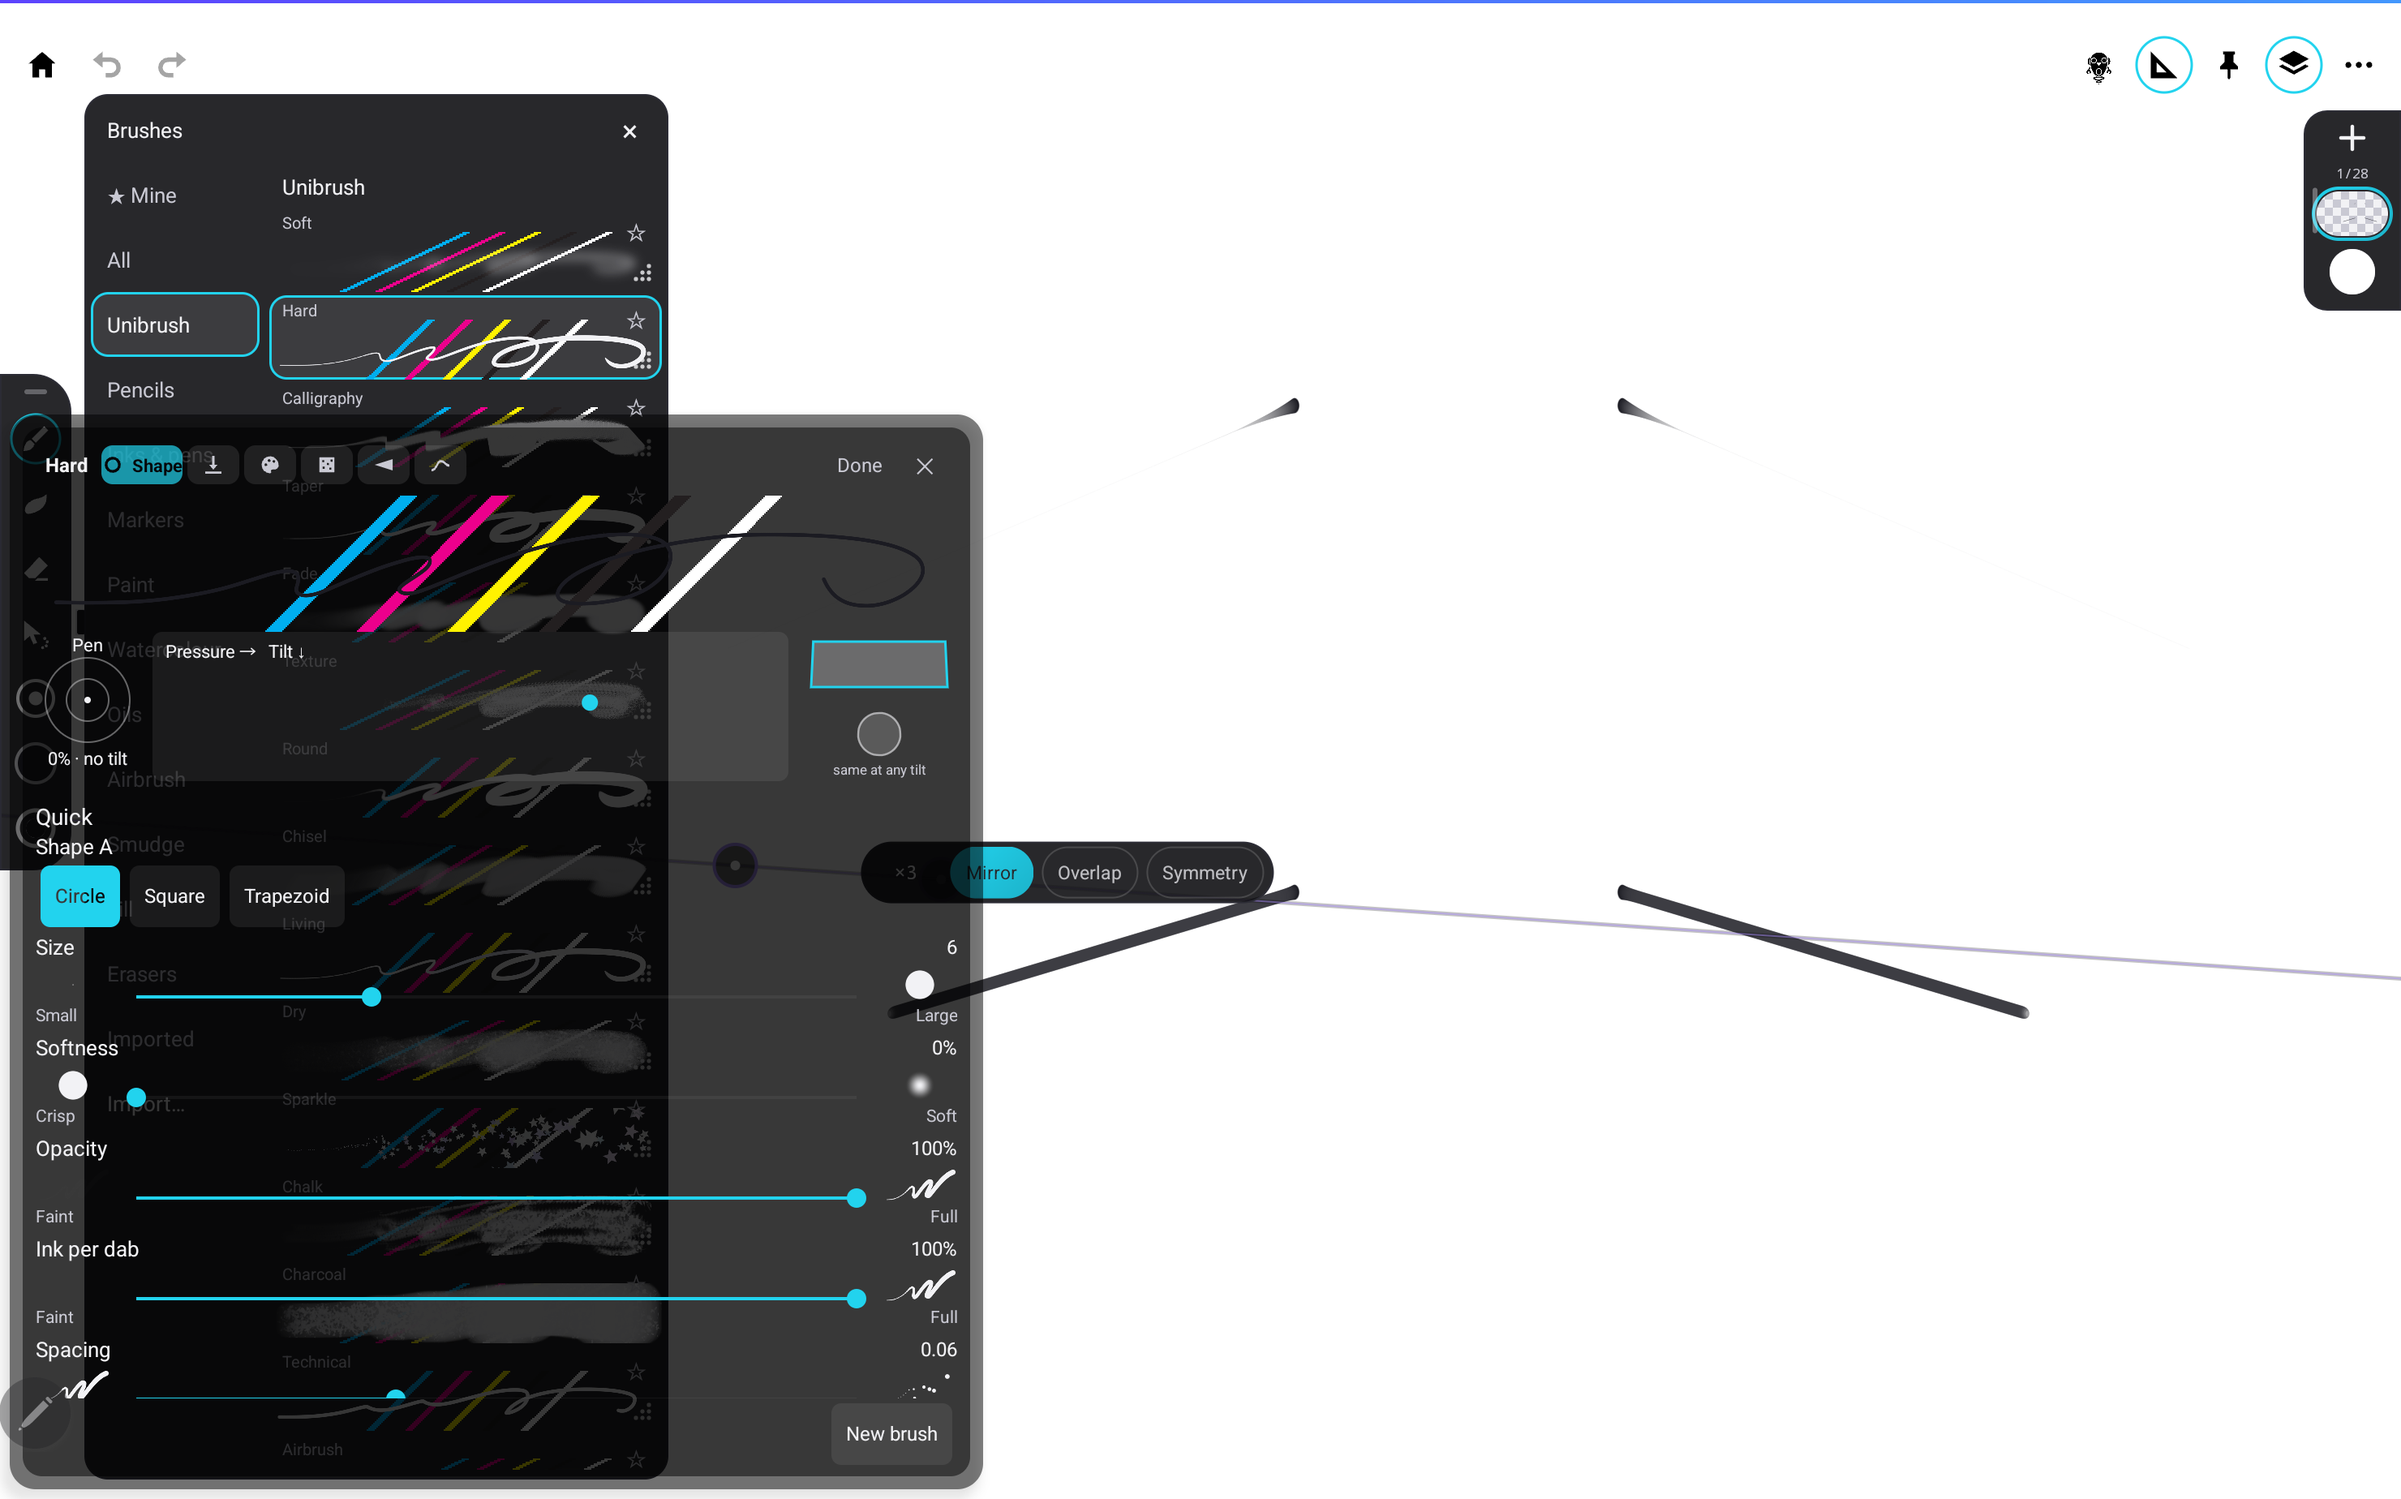
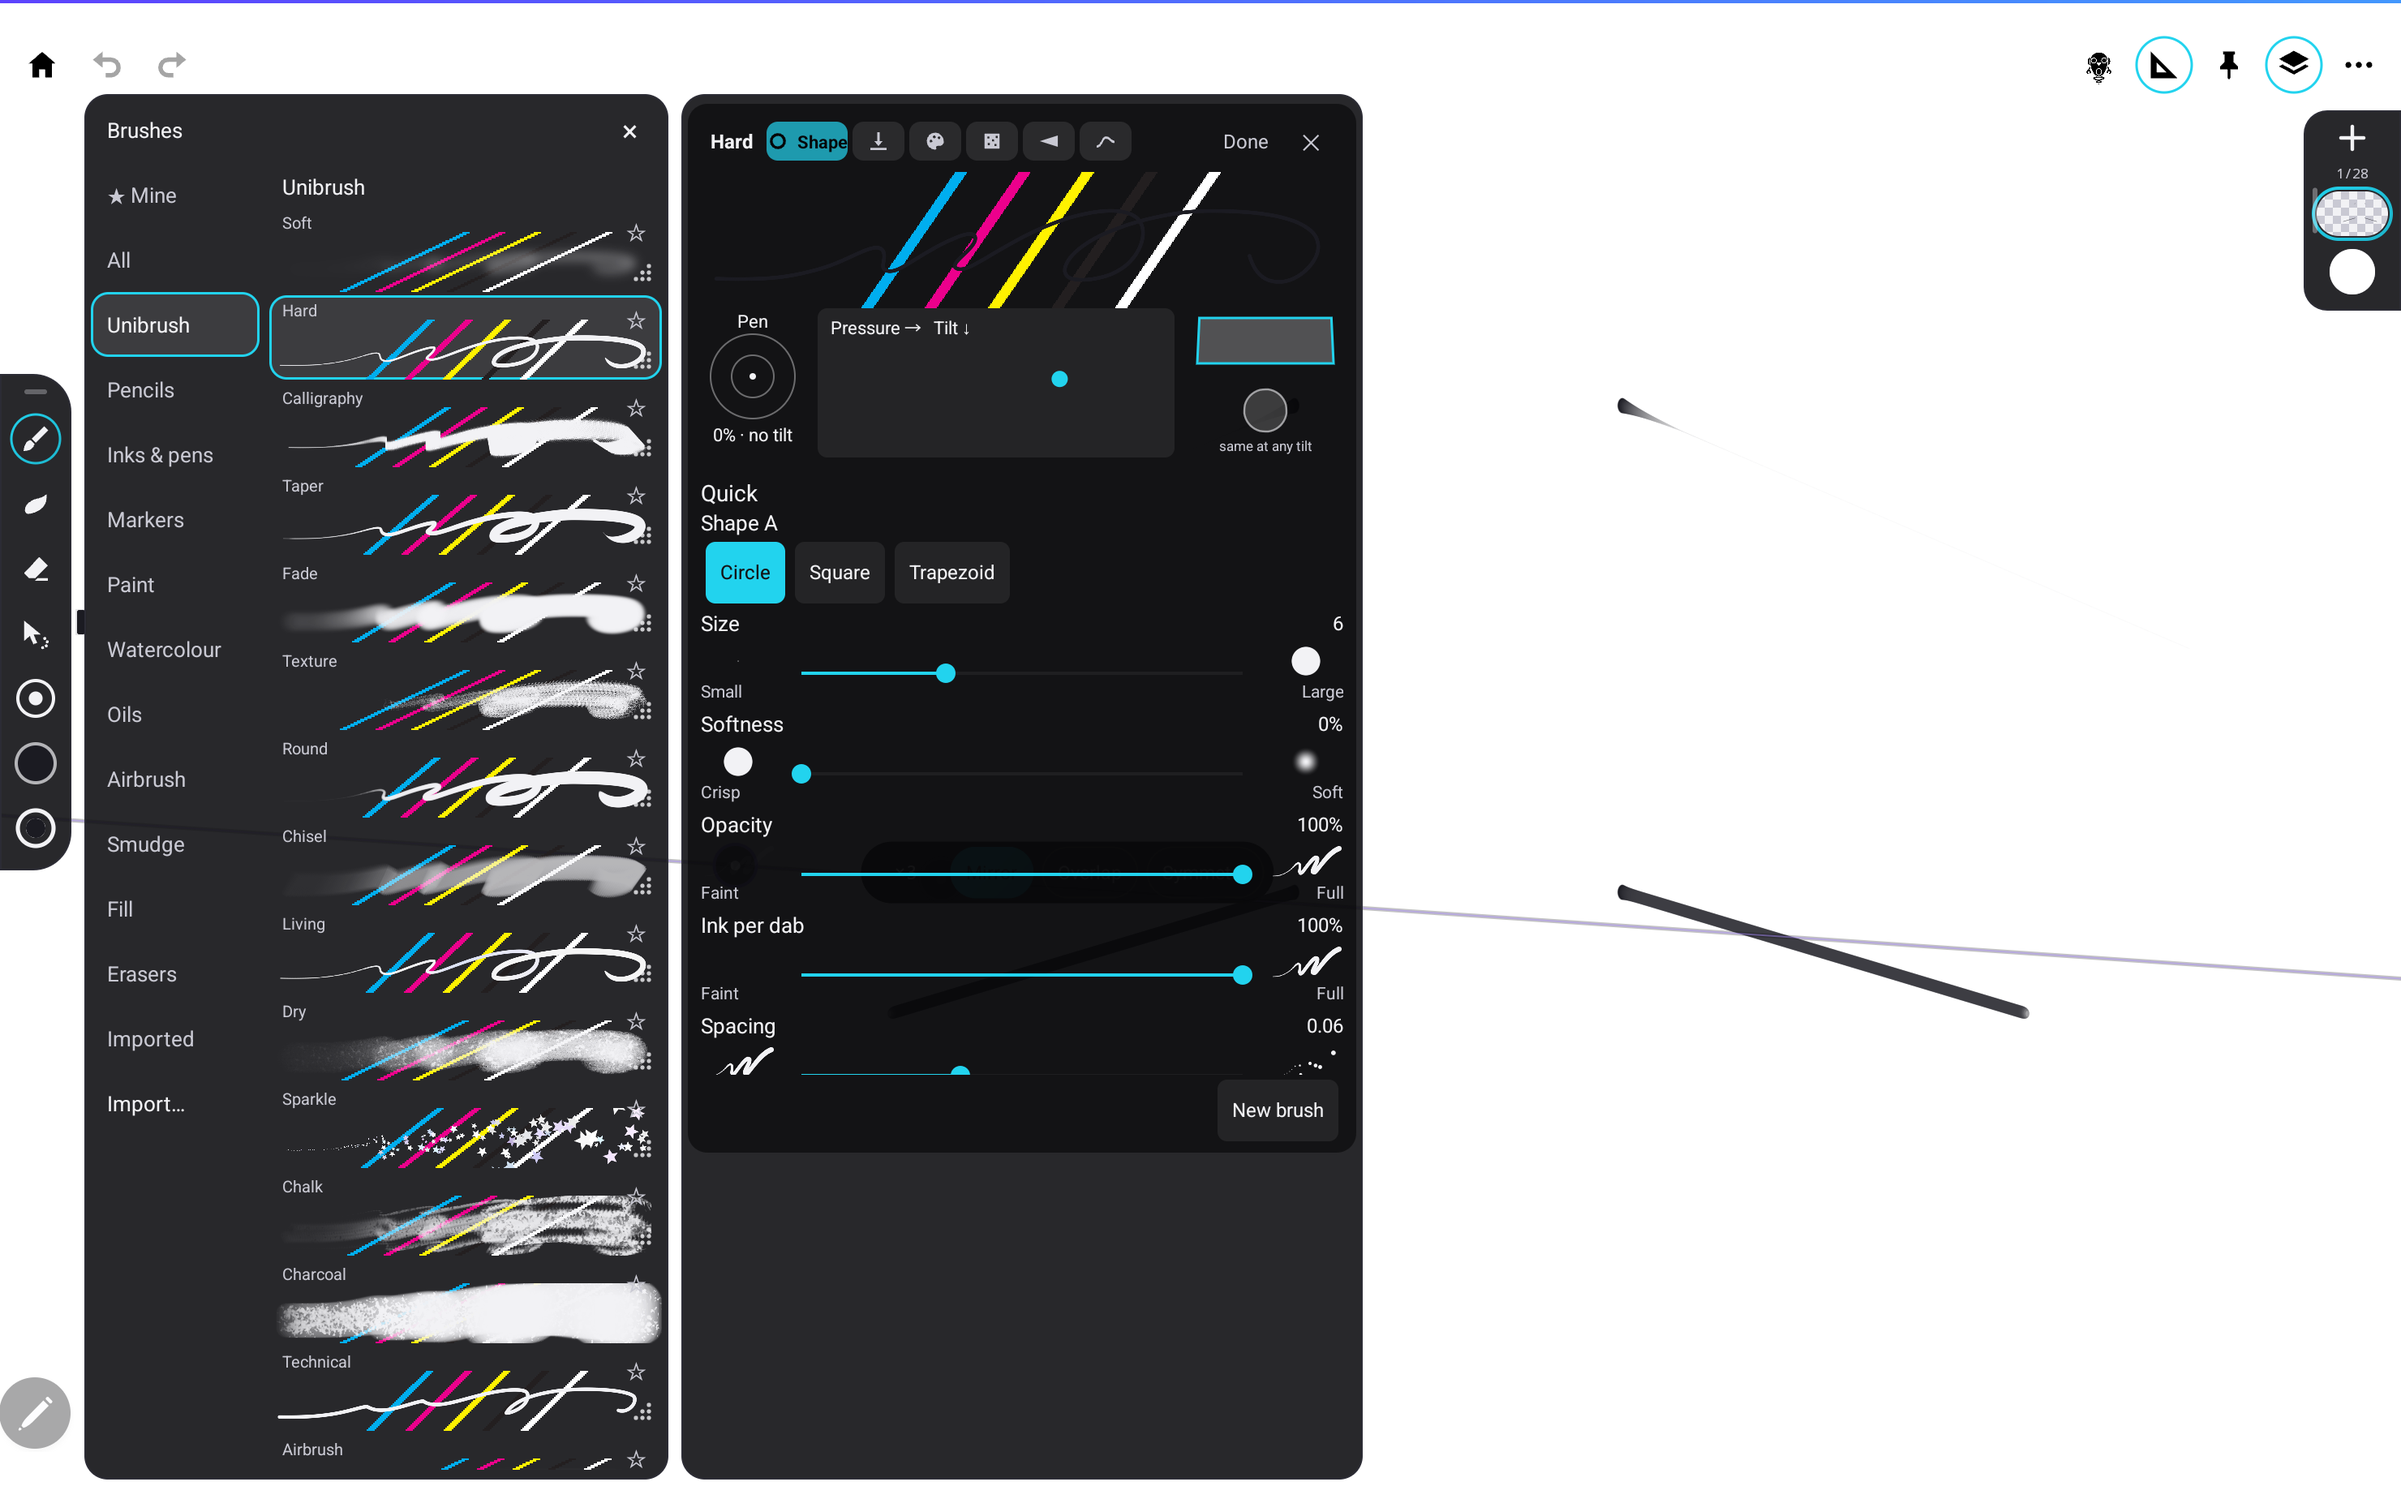
TAB-1 K11: Paper beside panels slides the drawing's own view instead of narrowing it
Tablet check: narrowing the canvas left the guides, symmetry handle and every other layer drawn
in the drawing's coordinates behind. A pan by the panels' width keeps them together, and the
paper still fills the screen (the paper-coloured strip is no longer needed).

diff --git a/joybrush-android/src/main/kotlin/cc/joycreator/joybrush/android/JoyBrushActivity.kt b/joybrush-android/src/main/kotlin/cc/joycreator/joybrush/android/JoyBrushActivity.kt
@@ -694,7 +694,7 @@ class JoyBrushActivity : Activity() {
         // Undo, redo, a frame change and a board edit all change the lines under a selection: it ends first.
         canvas.onBeforeHistoryChange = { popovers.close(); boardController?.stopPreview(); selection?.beforeHistoryChange() }
         canvas.onPaperBackdropChanged = { checkIcons() }
-        canvas.onPaperChanged = { p -> refreshPaper(p); checkIcons(); fitPaperBesidePanels() }
+        canvas.onPaperChanged = { p -> refreshPaper(p); checkIcons() }
         refreshPaper(canvas.documentPaper)
         canvas.onTilesLost = { count -> toast("$count squares of this drawing were lost by the graphics chip and are blank now. Everything else is saved.") }
         canvas.onHistoryChanged = { canUndo, canRedo ->
@@ -1644,13 +1644,18 @@ class JoyBrushActivity : Activity() {
         fitPaperBesidePanels()
     }
 
+    /** TAB-1 K11: how far the drawing is slid aside for the standing panels, screen px (0 = not slid). */
+    private var paperAsideShiftPx = 0f
+
     /**
-     * TAB-1 K11 (owner: "that should just be an option in settings"): with "Paper beside panels" on, the drawing's
-     * view ends where the standing brush panels begin, so they never lie over the drawing. Off (the default) keeps
-     * the drawing full screen under them, exactly as before.
+     * TAB-1 K11 (owner: "that should just be an option in settings"): with "Paper beside panels" on, the drawing
+     * slides aside by the standing brush panels' width, so what lay under them shows beside them; it slides back
+     * when they close. A pan of the drawing's own view, so the paper still fills the screen and everything drawn in
+     * the drawing's coordinates (guides, symmetry, reference, Select, boards) moves with it; your own pans and zooms
+     * meanwhile are kept. Off (the default): the drawing stays under the panels, exactly as before.
      */
     private fun fitPaperBesidePanels() {
-        val lp = canvas.layoutParams as? FrameLayout.LayoutParams ?: return
+        if (!::canvas.isInitialized || !::prefs.isInitialized) return
         val on = prefs.getBoolean(PREF_PAPER_ASIDE, false)
         val inset = when {
             !on -> 0
@@ -1658,18 +1663,13 @@ class JoyBrushActivity : Activity() {
             brushDock != null -> dp(BRUSH_DOCK_RAIL_GAP + BRUSH_DOCK_DP)
             else -> 0
         }
-        // The strip the drawing leaves is paper-coloured, so the top bar's icons (drawn for the paper) stay
-        // readable over it (Fold check 11-15: they vanished on the bare black window).
-        (canvas.parent as? View)?.let { host ->
-            if (inset > 0) host.setBackgroundColor(canvas.paperArgb) else host.background = null
-        }
-        val right = placement.edge == StripPlacement.Edge.RIGHT
-        val l = if (right) 0 else inset
-        val r = if (right) inset else 0
-        if (lp.leftMargin == l && lp.rightMargin == r) return
-        lp.leftMargin = l
-        lp.rightMargin = r
-        canvas.layoutParams = lp
+        val want = (if (placement.edge == StripPlacement.Edge.RIGHT) -inset else inset).toFloat()
+        val delta = want - paperAsideShiftPx
+        if (delta == 0f) return
+        paperAsideShiftPx = want
+        canvas.view.panX += delta
+        canvas.requestRender()
+        canvas.onViewMoved?.invoke()
     }
 
     /**
